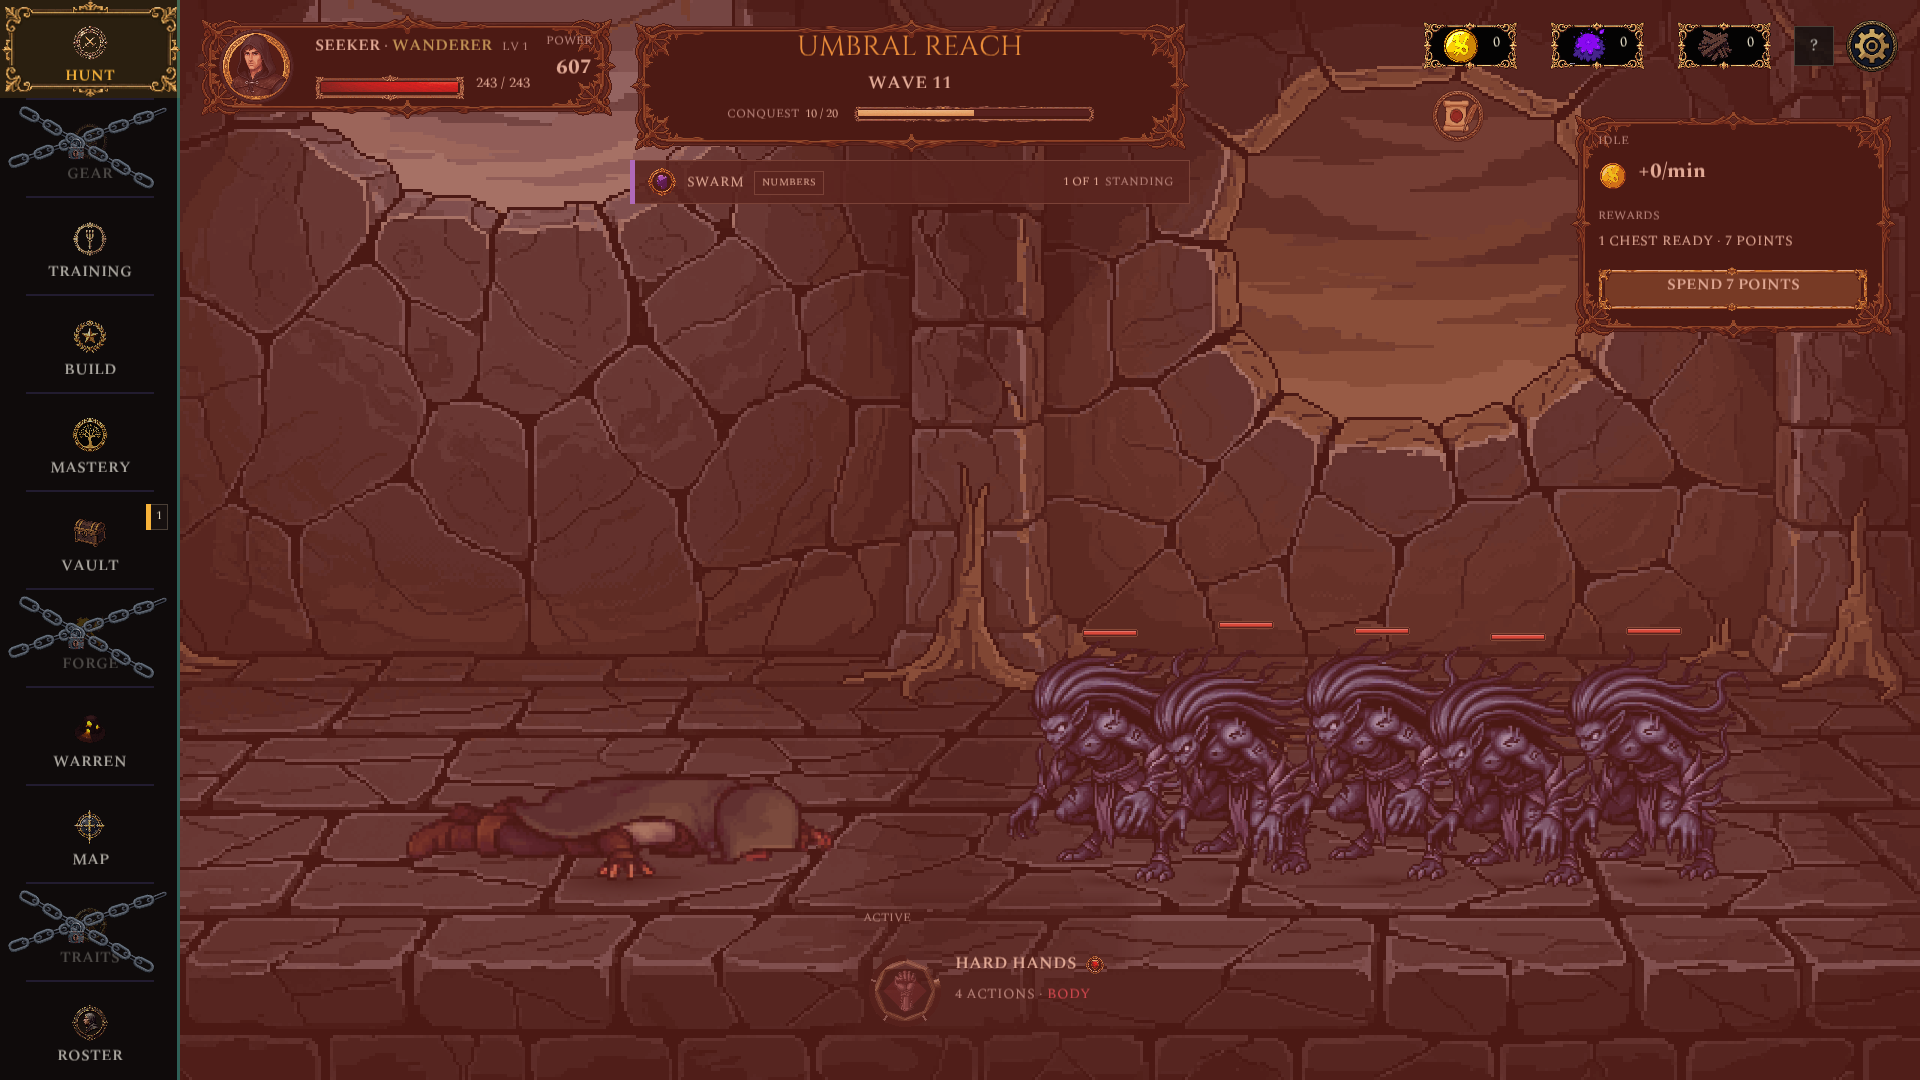
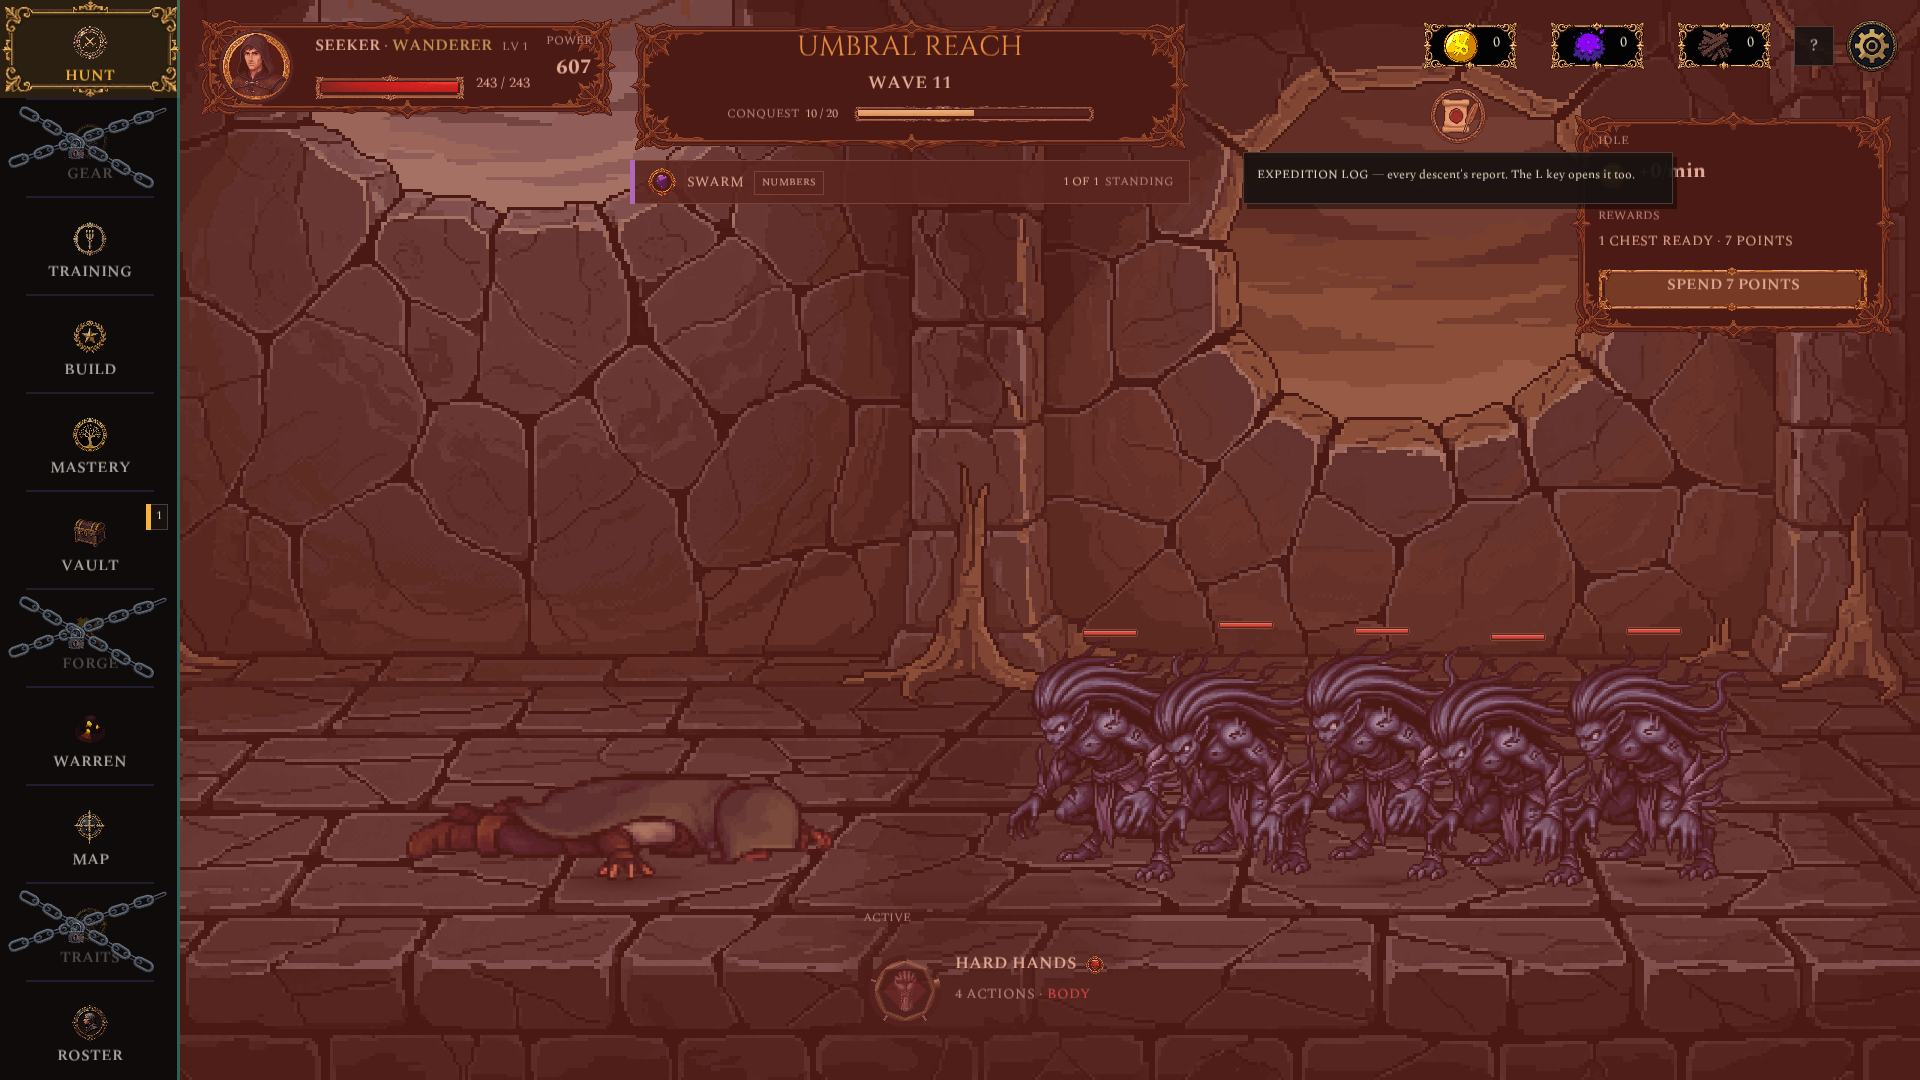
fix(hunt): the fight's HUD refuses input only while the black covers it
The death transition refused the medallion, the rail's doors and the inspector
from the fall frame onward, and parked the cursor so nothing hovered - which
left the medallion painted beside the fallen Hunter for 1.25 seconds, looking
exactly like a door and refusing to open. "Nothing clickable paints when its
input is blocked" cuts both ways: what is painted is live, and only the black
blocks.

BlackAlpha is now the one reading both halves share - Draw paints it, and
TakeInput refuses under DeathTransition.Covers(BlackAlpha), true exactly while
the fill is visible: from the fade-out's first frame to the lift's last, and
not a frame longer either side (under Reduced Motion, the cut's own frames).
The readable beat is live like any other frame: the medallion opens the log,
hover faces and the tip paint normally, and the cursor is never parked.
DeathTransitionUp stays the wider fact the coach and the lesson card yield to,
from the fall frame to the lift's end - nothing is said beside a collapse.

presentation_beats_test steps the whole fall and pins that refusal and paint
agree on every frame, that the readable beat never refuses, that the restart
frame does, and that the Reduced cut refuses exactly its black frames;
hunt_screen_feedback_test pins BlackAlpha, BlackCovers, the gate's place in
TakeInput and the absence of any cursor park. capture.sh now forwards the
three posed-cursor dials its header has always documented, so a hover can be
[…]

Changed region(s): [[0.625, 0.0917, 0.875, 0.2139]]

diff --git a/src/IdleXIdle.Game/HuntScreen.cs b/src/IdleXIdle.Game/HuntScreen.cs
@@ -1146,11 +1146,22 @@ public sealed class HuntScreen
     /// <remarks>
     /// Published for the host: nothing is said over a fall. The lesson card and the coach's spotlight
     /// yield while this is true — a prompt beside a collapsing Hunter, or brackets over a black stage,
-    /// is a second thing to look at — and <see cref="TakeInput"/> refuses this screen's own HUD under
-    /// it. The same reading <see cref="ResolveOverlay"/> and the fill at the foot of <see cref="Draw"/>
-    /// use, so the three cannot disagree about when the fall is over.
+    /// is a second thing to look at. Input is the narrower question (<see cref="BlackCovers"/>): the
+    /// medallion beside a fallen Hunter is painted, so it is live; only the black blocks it.
     /// </remarks>
     public bool DeathTransitionUp => DeathTransition.Up(_mode == Mode.Downed, _deathFadeIn);
+
+    /// <summary>How black the stage is this frame, 0..1 — what the foot of <see cref="Draw"/> paints.</summary>
+    /// <remarks>
+    /// ONE READING FOR BOTH HALVES (ADR-006): the fill paints this and <see cref="TakeInput"/> refuses
+    /// under it, so the paint and the refusal cannot disagree about whether the HUD is covered. Read from
+    /// the two clocks and the Reduced Motion switch alone; DevShowFall holds it at zero so `fightfall`
+    /// can photograph the collapse at any point of the beat.
+    /// </remarks>
+    private float BlackAlpha => DevShowFall ? 0f : DeathTransition.Alpha(_mode == Mode.Downed, _downedTimer, _deathFadeIn, UiMotion.Reduced);
+
+    /// <summary>Is the black covering this screen's own HUD — the medallion, the rail's doors, the inspector?</summary>
+    private bool BlackCovers => DeathTransition.Covers(BlackAlpha);
 
     /// <summary>What each STYLE announces when it fires — the fight is watched, so the effect is the read.</summary>
     private static (string Text, Color Color) CalloutFor(Style style) => style switch
@@ -1288,10 +1299,12 @@ public sealed class HuntScreen
         // nothing here paints while another screen is on top — so a lift that ran out unseen must not
         // resume as a black frame when the player comes back.
         if (!huntOnTop) { _deathFadeIn = 0f; return; }
-        // UNDER THE FALL, NOTHING ON THIS SCREEN ANSWERS. The medallion, the rail's doors and the
-        // inspector stand beside a collapsing Hunter and then under the black, and Draw parks the cursor
-        // for them; the host's own chrome stays live above it, and L still opens the log.
-        if (DeathTransitionUp) return;
+        // UNDER THE BLACK, NOTHING ON THIS SCREEN ANSWERS — and only under the black. The medallion, the
+        // rail's doors and the inspector are painted beside a fallen Hunter for the readable beat, so
+        // they are live then, exactly as on any other frame; from the fade's first frame to the lift's
+        // last they are covered, and refuse. The host's own chrome stays live above the black, and L
+        // still opens the log.
+        if (BlackCovers) return;
         // The paint's own guard: before the first descent there is no HUD to hit.
         if (_run is null || _replay is null || _champ is null) return;
 
@@ -2316,10 +2329,8 @@ public sealed class HuntScreen
         _enemyArt = enemyArt;
         if (WriteBudgetLedger) WriteBudgetLedgerOnce();
         // The host hands us the cursor in this screen's own 1920 space (Game1.ChromeMouse, mapped once at
-        // full resolution), so the log button and the utility doors hit-test it as is. PARKED while the
-        // death transition is up: TakeInput refuses everything this screen paints under it, and a control
-        // whose input is refused does not hover (ADR-006 — what is drawn is what is hit-tested).
-        var hit = DeathTransitionUp ? OffCanvas : mouse;
+        // full resolution), so the log button and the utility doors hit-test it as is.
+        var hit = mouse;
         if (_run is null || _replay is null || _champ is null) return;
 
         // The dev boss fixture is a STATIC verification shot — clear transient combat churn (death smoke,
@@ -2369,12 +2380,11 @@ public sealed class HuntScreen
         // arena rectangle. The settings' SCREEN FLASH switch still governs it.
         if (_deathFlash > 0f && ShowScreenFlash) _ui.Fill(b, new Rectangle(0, 0, 1920, 1080), Ember * (_deathFlash * 0.35f));
         // THE FALL'S BLACK, after the flash and under the host's chrome. One fill over the whole canvas —
-        // the arena, the header stack, the rails, the medallion, the scene behind — read from the two
-        // clocks and the Reduced Motion switch alone (DeathTransition), so the host's toast gate cannot
-        // silence it. Batch C paints the pills, the gear and the nav over it: their input is not
-        // blocked, so they stay live. DevShowFall holds it off so `fightfall` can photograph the
-        // collapse at any point of the beat.
-        var black = DevShowFall ? 0f : DeathTransition.Alpha(_mode == Mode.Downed, _downedTimer, _deathFadeIn, UiMotion.Reduced);
+        // the arena, the header stack, the rails, the medallion, the scene behind — from BlackAlpha, the
+        // reading TakeInput refuses under, so the host's toast gate cannot silence it and the HUD is
+        // never refused while visible nor answered while covered. Batch C paints the pills, the gear and
+        // the nav over it: their input is not blocked, so they stay live.
+        var black = BlackAlpha;
         if (black > 0f) _ui.Fill(b, new Rectangle(0, 0, 1920, 1080), Color.Black * black);   // ui-page-ok: the canvas, not the page
         if (_isBossWave && DevBossDebug) DrawBossDebugOverlay(b); // §17: fixture-only bounds visualization (F7)
         if (DevVfxDebug) DrawVfxDebugOverlay(b);                  // §70: the VFX contract's own arithmetic (F9)
@@ -5229,9 +5239,10 @@ public sealed class HuntScreen
     //    descent begins at full black on the frame the beat runs out; the black holds for DeathTransition.Hold
     //    and lifts over DeathTransition.FadeIn while the new wave walks in. The arithmetic is DeathTransition
     //    (PresentationBeats.cs); this screen owns the two clocks — _downedTimer and the lift below — and
-    //    paints ONE full-canvas fill from them at the foot of Draw, under the host's chrome. Under Reduced
-    //    Motion both fades are cuts. No plate, no door, no header line: the wave lane shows the wave that
-    //    fell until the restart and the new wave after it, and the report waits in the EXPEDITION LOG.
+    //    paints ONE full-canvas fill from them at the foot of Draw, under the host's chrome; its own HUD
+    //    refuses input exactly while that fill is visible (BlackCovers) and is live at every other frame.
+    //    Under Reduced Motion both fades are cuts. No plate, no door, no header line: the wave lane shows
+    //    the wave that fell until the restart and the new wave after it, and the report waits in the LOG.
 
     /// <summary>Seconds left of the lift after a restart — the hold, then the fade. Zero while the stage is visible.</summary>
     /// <remarks>
@@ -5239,9 +5250,6 @@ public sealed class HuntScreen
     /// another screen is on top (<see cref="TakeInput"/>), held by <see cref="DevPoseDeathTransition"/>.
     /// </remarks>
     private float _deathFadeIn;
-
-    /// <summary>Where this screen's HUD is told the cursor is while the transition is up: nowhere, so nothing hovers under the black.</summary>
-    private static readonly Point OffCanvas = new(-4096, -4096);
 
     /// <summary>The run's state, or null when it is simply running and there is nothing to say.</summary>
     /// <remarks>

diff --git a/tests/unit/IdleXIdle.Core.Tests/Presentation/hunt_screen_feedback_test.cs b/tests/unit/IdleXIdle.Core.Tests/Presentation/hunt_screen_feedback_test.cs
@@ -116,24 +116,30 @@ public class HuntScreenFeedbackTests
         Assert.Equal(at, src.LastIndexOf(fill, StringComparison.Ordinal));
         Assert.True(at > src.IndexOf("Ember * (_deathFlash * 0.35f)", StringComparison.Ordinal), "the black is painted before the flash");
         Assert.True(at > src.IndexOf("DrawHunterHud(b);", StringComparison.Ordinal), "the black is painted inside the arena pass — it will be scissored");
-        var reads = Slice(src, "var black = ", fill);
-        Assert.Contains("DeathTransition.Alpha(_mode == Mode.Downed, _downedTimer, _deathFadeIn, UiMotion.Reduced)", reads);
-        Assert.DoesNotContain("clicked", reads);
-        Assert.DoesNotContain("wheel", reads);
-        Assert.DoesNotContain("suppressBanner", reads);
+        Assert.Contains("var black = BlackAlpha;", src);
+        Assert.True(src.IndexOf("var black = BlackAlpha;", StringComparison.Ordinal) < at, "the fill reads an alpha computed after it");
+        const string alpha = "private float BlackAlpha => DevShowFall ? 0f : DeathTransition.Alpha(_mode == Mode.Downed, _downedTimer, _deathFadeIn, UiMotion.Reduced);";
+        Assert.Contains(alpha, src);
+        Assert.DoesNotContain("clicked", alpha);
+        Assert.DoesNotContain("suppressBanner", alpha);
 
-        // ...and this screen's own HUD does not answer under it. DECIDED IN UPDATE (ADR-006): TakeInput
-        // refuses the medallion and the rail while the transition is up, after the log and after the
-        // screen gate, so a click under the black cannot fire what the black covers.
+        // ...and this screen's own HUD refuses EXACTLY WHILE THE BLACK COVERS IT, and is live at every
+        // other frame — the medallion painted beside a fallen Hunter opens the log as it always does,
+        // and nothing hovers or answers under the black. ONE READING FOR BOTH HALVES (ADR-006): the
+        // refusal is the paint's own alpha, decided in TakeInput after the log and after the screen gate.
+        Assert.Contains("private bool BlackCovers => DeathTransition.Covers(BlackAlpha);", src);
+        Assert.DoesNotContain("OffCanvas", src);   // the cursor is never parked: a painted control hovers
+        Assert.Contains("var hit = mouse;", src);
         var input = Slice(src, "public void TakeInput(Point mouse, bool clicked, int wheel, bool huntOnTop)", "private string _buildStamp");
         var logGate = input.IndexOf("if (_logOpen) { TakeLogInput(mouse, clicked, wheel); return; }", StringComparison.Ordinal);
         var topGate = input.IndexOf("if (!huntOnTop) { _deathFadeIn = 0f; return; }", StringComparison.Ordinal);
-        var fallGate = input.IndexOf("if (DeathTransitionUp) return;", StringComparison.Ordinal);
+        var blackGate = input.IndexOf("if (BlackCovers) return;", StringComparison.Ordinal);
         var medallion = input.IndexOf("UiKit.ClickedIn(LogButtonRect", StringComparison.Ordinal);
         Assert.True(logGate >= 0, "the log gate is missing from TakeInput");
         Assert.True(topGate > logGate, "leaving the screen must snap the transition, after the log gate");
-        Assert.True(fallGate > topGate, "the death transition's refusal must follow the screen gate");
-        Assert.True(medallion > fallGate, "the medallion is hit-tested before the death transition refuses it");
+        Assert.True(blackGate > topGate, "the black's refusal must follow the screen gate");
+        Assert.True(medallion > blackGate, "the medallion is hit-tested before the black refuses it");
+        Assert.DoesNotContain("if (DeathTransitionUp) return;", input);   // the readable beat is live
     }
 
     [Fact]

diff --git a/tests/unit/IdleXIdle.Game.Tests/presentation_beats_test.cs b/tests/unit/IdleXIdle.Game.Tests/presentation_beats_test.cs
@@ -429,6 +429,30 @@ public class PresentationBeatsTest
     }
 
     [Fact]
+    public void test_the_hud_refuses_exactly_while_the_black_is_visible_and_is_live_at_every_other_frame()
+    {
+        // "Nothing clickable paints when its input is blocked" cuts both ways: the medallion painted
+        // beside a fallen Hunter for the readable beat is LIVE, and only the black blocks it — from the
+        // fade-out's first visible frame to the lift's last, never a frame longer either side.
+        foreach (var reduced in new[] { false, true })
+        {
+            var fall = Fall(reduced);
+            Assert.All(fall, f => Assert.Equal(f.Alpha > 0f, DeathTransition.Covers(f.Alpha)));
+            var readableFrames = (int)((Descent.DownedSeconds - DeathTransition.FadeOut) / FrameS);
+            Assert.All(fall.Where(f => f.Frame < readableFrames), f => Assert.False(DeathTransition.Covers(f.Alpha), "the readable beat refused input"));
+            Assert.True(DeathTransition.Covers(fall.First(f => !f.Downed).Alpha), "the restart frame is black and must refuse");
+            Assert.False(DeathTransition.Covers(fall[^1].Alpha), "the stage is back and must answer");
+            // ...and the transition being UP (the coach's gate) is the wider window: it starts on the fall
+            // frame, before the black, so a card is never raised beside the collapse either.
+            Assert.True(DeathTransition.Up(fall[0].Downed, 0f));
+            Assert.False(DeathTransition.Covers(fall[0].Alpha));
+        }
+        // Under Reduced Motion the black is a cut, so the refusal is a cut too: the same frames, no more.
+        var cut = Fall(reduced: true);
+        Assert.Equal(cut.Count(f => f.Alpha == 1f), cut.Count(f => DeathTransition.Covers(f.Alpha)));
+    }
+
+    [Fact]
     public void test_the_rigs_dial_sweeps_from_the_last_readable_instant_through_the_black_to_the_stage_back()
     {
         // RH_SHOT_T for `fightfade`: five instants a reviewer can name, linear in seconds between them.

diff --git a/src/IdleXIdle.Game/PresentationBeats.cs b/src/IdleXIdle.Game/PresentationBeats.cs
@@ -161,7 +161,20 @@ public static class DeathTransition
     }
 
     /// <summary>Does the transition own the stage — the downed beat, or the black and the lift after it?</summary>
+    /// <remarks>
+    /// The fact the host's lesson card and coach spotlight yield to: nothing is SAID over a fall from its
+    /// first frame to the lift's last. Input is a narrower question — see <see cref="Covers"/>.
+    /// </remarks>
     public static bool Up(bool downed, float fadeInClock) => downed || fadeInClock > 0f;
+
+    /// <summary>Is the black covering the stage — does the screen's own HUD refuse input under it?</summary>
+    /// <remarks>
+    /// Exactly while the fill is visible, from the fade-out's first frame to the lift's last, and not a
+    /// frame longer either side: "nothing clickable paints when its input is blocked" cuts both ways, so
+    /// the readable phase — the medallion painted beside a fallen Hunter — is as live as any other frame.
+    /// One rule for both halves (ADR-006): the paint and the refusal read the same alpha.
+    /// </remarks>
+    public static bool Covers(float alpha) => alpha > 0f;
 
     /// <summary>One instant of the transition, for the capture rig: which clock is running and where it stands.</summary>
     /// <param name="Restarted">Has the next descent begun — is the instant past the restart frame?</param>

diff --git a/tests/unit/IdleXIdle.Game.Tests/capture_rig_modes_test.cs b/tests/unit/IdleXIdle.Game.Tests/capture_rig_modes_test.cs
@@ -137,6 +137,6 @@ public class CaptureRigModesTest
         Assert.Contains("DevHoldReport = false;", pose);
         Assert.Contains("StartRun(", pose);
         // ...and `fightfall` keeps its own hold: under DevShowFall the black never paints, whatever the clocks say.
-        Assert.Contains("var black = DevShowFall ? 0f : DeathTransition.Alpha(", hunt);
+        Assert.Contains("private float BlackAlpha => DevShowFall ? 0f : DeathTransition.Alpha(", hunt);
     }
 }
